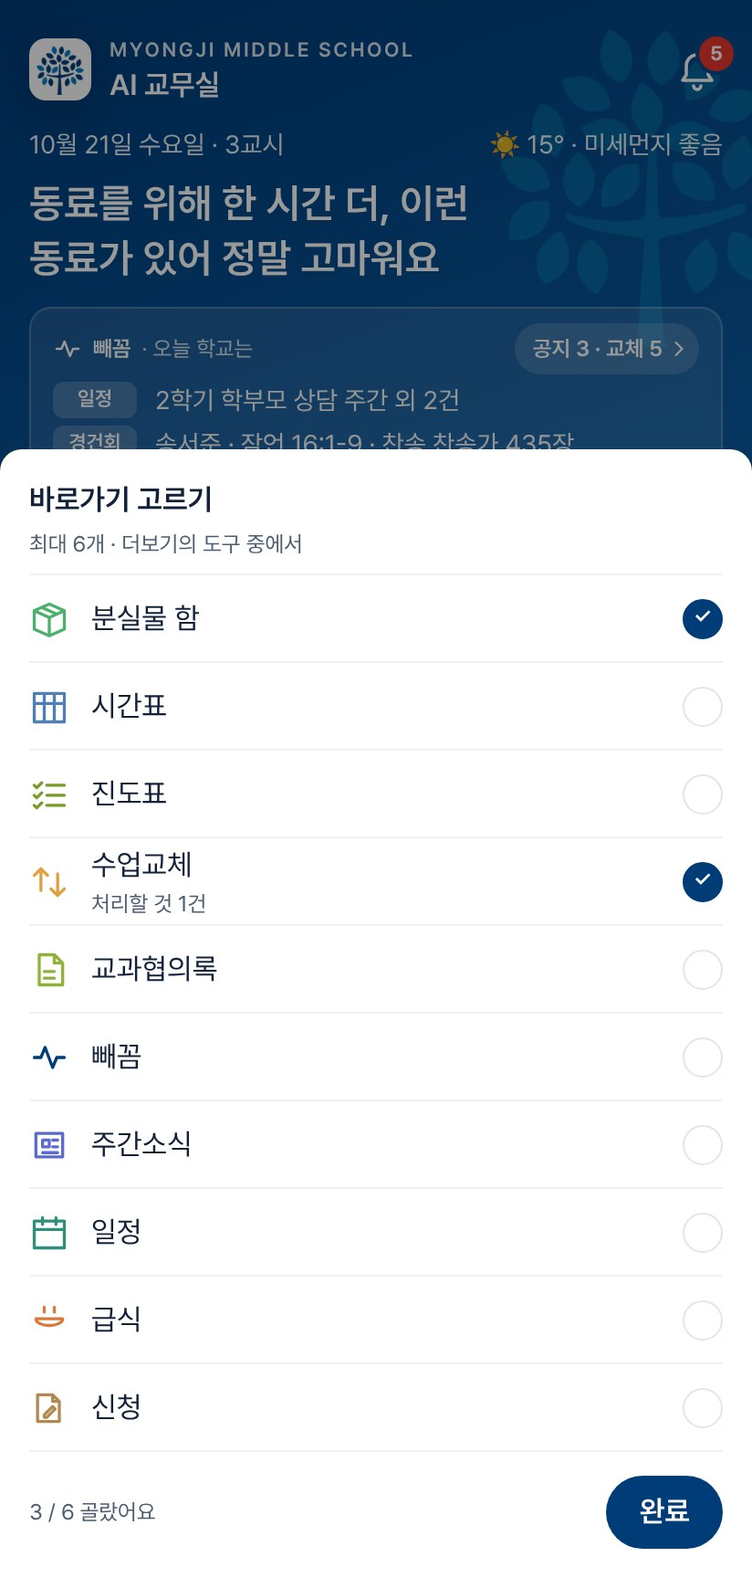
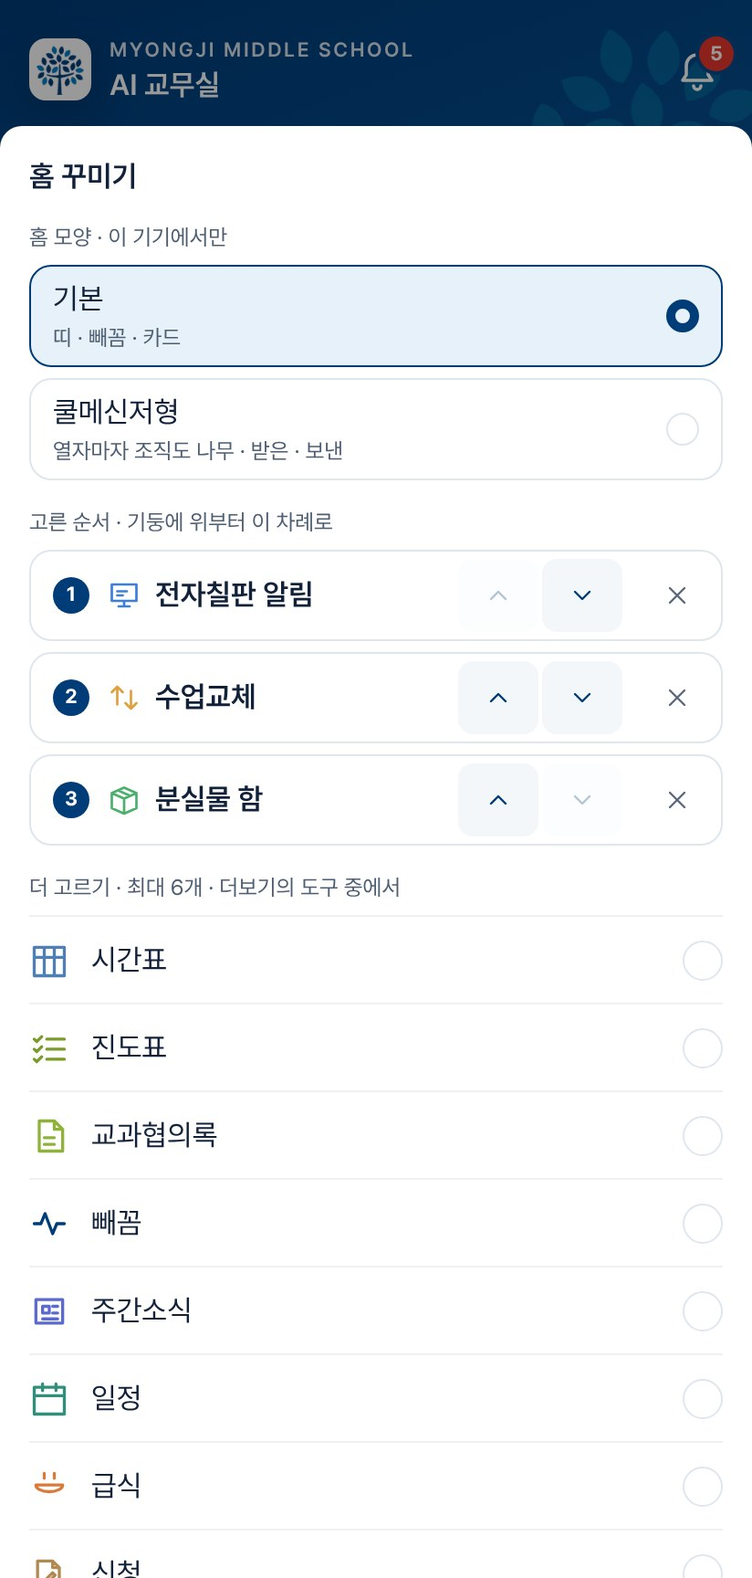
홈 꾸미기(10/31): 톱니 시트 새 그림·순서 ▲▼, 홈 모양 「쿨메신저형」 장면
- 톱니 시트가 「홈 꾸미기」로(홈 모양 · 고른 순서 ▲▼✕ · 더 고르기) — 그림 다시, 동그라미는 「고른 순서」에
- 새 장면 「열자마자 조직도, 쿨메신저형 홈」(보기만): 홈 모양 고르기, 두 줄 띠, 조직도·받은·보낸, 기둥 위 AI·자료실·더보기
- NEW 목록·요즘 새 기능·발표 노트에 10/31 홈 꾸미기

Claude-Session: https://claude.ai/code/session_01PnRkvZMXyWQ3PDuECRmpn5

diff --git a/img/rects.js b/img/rects.js
@@ -1,3 +1,3 @@
 /* 화면마다 동그라미 칠 자리(412×864 기준, 찍을 때 잰 값) — R(화면, 키) */
-window.SHOT_RECTS = {"ai-board": {"button": [31, 446, 162, 40], "card": [16, 286, 380, 213], "head": [31, 297, 177, 20], "question": [73, 68, 323, 98]}, "ai-deep": {"answer": [16, 202, 323, 464], "feedback": [20, 672, 41, 36], "question": [73, 68, 323, 124]}, "ai-deep-ready": {"deep": [72, 588, 211, 34], "file": [16, 499, 380, 38], "input": [72, 634, 268, 72], "plus": [16, 658, 48, 48], "send": [348, 658, 48, 48]}, "ai-form": {"answer": [16, 124, 323, 308], "feedback": [20, 438, 41, 36], "links": [267, 372, 37, 19], "question": [147, 68, 249, 46]}, "ai-home": {"chip_first": [16, 202, 380, 46], "chips": [16, 201, 380, 236], "clear": [333, 12, 71, 44], "greet": [16, 100, 380, 30], "head": [16, 16, 74, 36], "hello": [16, 134, 380, 39], "input": [72, 658, 268, 48], "mic": [348, 658, 48, 48], "notice": [16, 718, 380, 33], "plus": [16, 658, 48, 48], "tab_ai": [166, 792, 81, 44]}, "ai-lesson": {"body": [31, 501, 350, 482], "card": [16, 260, 380, 834], "head": [17, 261, 378, 41], "question": [73, 68, 323, 72]}, "ai-lesson-2": {"body": [31, 48, 350, 482], "button": [31, 560, 111, 40]}, "ai-letter": {"body": [31, 620, 350, 274], "card": [16, 286, 380, 671], "head": [17, 287, 378, 41], "question": [73, 68, 323, 72]}, "ai-letter-2": {"body": [31, 276, 350, 274], "button": [31, 560, 151, 40], "feedback": [20, 619, 41, 36]}, "ai-library": {"answer": [16, 124, 323, 438], "feedback": [20, 568, 41, 36], "links": [65, 450, 37, 19], "question": [133, 68, 263, 46]}, "ai-lost": {"button": [31, 586, 84, 40], "card": [16, 312, 380, 327], "photo": [31, 366, 96, 96], "question": [73, 68, 323, 124]}, "ai-nep": {"button": [31, 726, 84, 40], "card": [16, 286, 380, 493], "edit": [127, 738, 89, 16], "people": [31, 589, 350, 84], "question": [73, 68, 323, 72]}, "ai-number": {"button": [31, 449, 96, 40], "card": [16, 260, 380, 242], "question": [81, 68, 315, 46]}, "ai-parent": {"answer": [16, 150, 323, 386], "feedback": [20, 542, 41, 36], "question": [73, 68, 323, 72]}, "ai-plus": {"attach": [22, 523, 284, 60], "close": [16, 658, 48, 48], "deep": [22, 584, 284, 60], "menu": [16, 517, 296, 133]}, "ai-progress": {"button": [31, 504, 108, 40], "card": [16, 286, 380, 271], "question": [73, 68, 323, 72]}, "ai-recruit": {"button": [31, 546, 68, 40], "card": [16, 312, 380, 287], "question": [73, 68, 323, 72], "reason": [31, 480, 350, 35]}, "ai-repair": {"button": [31, 576, 96, 40], "card": [16, 260, 380, 369], "head": [17, 261, 378, 41], "question": [73, 68, 323, 72]}, "ai-sign": {"button": [31, 705, 175, 40], "card": [16, 286, 380, 472], "people": [31, 544, 350, 151], "question": [73, 68, 323, 72]}, "ai-swap": {"calendar": [31, 364, 75, 14], "card": [16, 312, 380, 703], "question": [73, 68, 323, 72]}, "ai-typed": {"input": [72, 658, 268, 48], "plus": [16, 658, 48, 48], "send": [348, 658, 48, 48]}, "ai-week": {"answer": [16, 124, 323, 308], "feedback": [20, 438, 41, 36], "question": [214, 68, 182, 46]}, "alerts": {}, "alerts-done": {"clear": [316, 379, 80, 44], "summary": [16, 331, 380, 44]}, "board-alert": {"all": [174, 581, 92, 40], "fire": [150, 233, 113, 56], "kind": [266, 137, 112, 44], "offline": [31, 679, 350, 16], "presets": [31, 233, 350, 118], "submit": [31, 701, 350, 50]}, "board-alert-confirm": {"cancel": [16, 804, 136, 44], "go": [160, 804, 236, 44], "sheet": [0, 0, 412, 864], "text": [16, 720, 380, 72], "where": [16, 668, 380, 40]}, "board-grades": {"g1": [31, 501, 113, 40], "g2": [150, 501, 113, 40], "offline": [31, 572, 350, 16], "submit": [31, 594, 350, 50]}, "board-memo": {"body": [37, 239, 338, 110], "kind": [150, 137, 112, 44], "note": [31, 414, 350, 32], "submit": [31, 612, 350, 50]}, "board-photo": {"body": [37, 239, 338, 110], "photoChip": [106, 362, 63, 38], "submit": [31, 701, 350, 50], "thumb": [45, 410, 102, 80]}, "board-pick": {"all": [16, 535, 380, 44], "done": [16, 798, 380, 50], "grid": [16, 591, 380, 94], "legend": [16, 697, 380, 32], "off": [170, 641, 71, 44], "tabs": [16, 481, 380, 42]}, "board-schedule": {"at": [161, 410, 206, 40], "day": [45, 410, 110, 40], "drop": [265, 458, 102, 32], "line": [45, 466, 163, 16], "submit": [31, 670, 350, 50], "timeChip": [243, 362, 63, 38]}, "board-send": {"body": [37, 239, 338, 110], "kinds": [31, 134, 350, 50], "mine": [272, 455, 109, 40], "options": [37, 362, 338, 38], "submit": [31, 572, 350, 50], "what": [31, 204, 350, 21], "where": [31, 426, 350, 115]}, "board-sent": {"done": [31, 528, 90, 22], "end": [31, 408, 50, 36], "live": [82, 381, 34, 16], "liveChip": [31, 378, 96, 22], "over": [31, 677, 88, 22], "reserve": [300, 129, 81, 16], "tabs": [247, 59, 134, 42], "unshown": [126, 733, 100, 22], "waitChip": [31, 185, 69, 22]}, "board-voice-rec": {"status": [45, 290, 322, 92], "stop": [285, 342, 82, 40]}, "calendar": {"grid": [16, 120, 380, 443], "seg": [206, 61, 187, 44], "today": [196, 391, 20, 20]}, "exam-card": {"ends": [31, 178, 350, 161], "head": [31, 87, 152, 20], "slots": [31, 134, 350, 32], "stats": [31, 351, 350, 73]}, "exam-card-pad": {"legend": [31, 150, 350, 16], "n24": [183, 307, 47, 40], "n7": [334, 195, 47, 40], "n9": [82, 239, 47, 40], "names": [31, 403, 350, 113], "stats": [31, 41, 350, 73]}, "exam-card-save": {"names": [31, 292, 350, 113], "note": [31, 470, 350, 48], "save": [31, 550, 350, 50]}, "forms": {"trip": [17, 110, 378, 56]}, "found": {"head": [16, 24, 380, 71]}, "home": {"bell": [360, 16, 44, 44], "changed": [276, 550, 45, 71], "gear": [356, 729, 52, 44], "hero": [16, 96, 380, 61], "hint": [16, 346, 380, 44], "nep": [16, 422, 320, 54], "now": [129, 550, 45, 71], "peek": [16, 168, 380, 120], "pg": [245, 489, 40, 44], "pill": [282, 177, 101, 28], "rail": [352, 406, 60, 380], "sc": [356, 410, 52, 62], "scAll": [356, 538, 52, 62], "tabAi": [166, 792, 81, 44], "tabMore": [327, 792, 81, 61], "tabNep": [85, 792, 81, 61], "tileLesson": [16, 300, 186, 38], "tileSched": [210, 300, 186, 38], "tiles": [16, 300, 380, 38], "tt": [289, 489, 40, 44]}, "home-3": {"cal": [289, 430, 40, 44], "gear": [356, 729, 52, 44], "meal": [31, 291, 24, 20], "rail": [352, 0, 60, 786], "upcoming": [31, 442, 76, 20], "weekly": [245, 430, 40, 44]}, "home-sheet": {"count": [16, 819, 69, 18], "done": [332, 808, 64, 40], "head": [16, 262, 380, 24], "pick": [16, 314, 380, 484], "sheet": [0, 0, 412, 864]}, "home-sports": {"card": [16, 16, 380, 493], "link": [16, 16, 380, 493]}, "library": {"chips": [72, 214, 52, 39], "pinned": [16, 282, 380, 95], "search": [52, 169, 331, 23], "write": [310, 720, 86, 48]}, "library-new": {"kind": [206, 440, 172, 36], "section": [31, 120, 350, 48], "submit": [31, 624, 350, 50], "title": [31, 210, 350, 48]}, "library-post": {"download": [31, 211, 350, 44]}, "library-search": {"result": [16, 282, 380, 95], "search": [52, 169, 331, 23]}, "login": {"go": [58, 554, 296, 50], "name": [58, 299, 296, 48], "pw": [58, 467, 296, 48]}, "lost-date": {"head": [31, 91, 53, 28], "head2": [31, 207, 51, 28], "scene": [16, 76, 380, 680]}, "lost-found": {"add": [126, 679, 161, 54], "box": [16, 76, 380, 680], "item": [184, 368, 81, 81], "note": [16, 756, 380, 43], "returned": [286, 16, 110, 44], "student": [251, 767, 50, 13]}, "lost-found-2": {"add": [126, 643, 161, 54], "note": [16, 720, 380, 43], "student": [251, 731, 50, 13]}, "lost-found-add": {"photo": [16, 154, 380, 212], "place": [16, 558, 380, 73], "submit": [149, 863, 247, 44]}, "lost-found-detail": {"back": [16, 804, 380, 44], "info": [16, 572, 380, 133]}, "lost-kind": {"head": [31, 91, 58, 28], "scene": [16, 76, 380, 680]}, "lost-tilt": {"btn": [280, 89, 103, 34], "scene": [16, 76, 380, 680]}, "meals": {}, "more-2": {"lost": [17, 228, 378, 56], "noti": [17, 524, 378, 56], "sign": [17, 376, 378, 56], "signature": [17, 580, 378, 56]}, "more-tools": {"board": [17, 383, 378, 56], "lost": [17, 643, 378, 56], "tools": [17, 439, 378, 56]}, "more-top": {"avatar": [107, 128, 203, 17]}, "nep-add": {"add": [16, 448, 253, 44]}, "nep-big": {"sheet": [0, 0, 412, 864]}, "nep-board": {"meter": [16, 173, 380, 76], "pending": [16, 261, 380, 21], "remind": [16, 328, 380, 44]}, "nep-board-replies": {"replies": [17, 509, 378, 37]}, "nep-board-submit": {"downloadAll": [275, 420, 121, 44]}, "nep-cal": {"events": [35, 292, 55, 20], "post": [35, 438, 342, 44]}, "nep-compose": {"plus": [16, 808, 44, 44], "send": [312, 808, 84, 44], "text": [16, 85, 380, 144], "to": [53, 52, 49, 25]}, "nep-compose-due": {"chip": [16, 237, 152, 29], "due": [43, 281, 261, 36], "send": [312, 808, 84, 44]}, "nep-event-hide": {"hide": [239, 385, 95, 44]}, "nep-fwd": {"card": [12, 276, 341, 358], "fwd": [307, 281, 39, 36]}, "nep-fwd-org": {"banner": [30, 148, 316, 40], "bar": [284, 702, 104, 41]}, "nep-inbox": {"chip": [341, 457, 51, 21], "me": [0, 128, 412, 68], "recruit": [0, 264, 412, 68], "row": [0, 196, 412, 68], "tabs": [16, 76, 380, 48], "unread": [372, 230, 20, 20]}, "nep-inbox-2": {"over": [332, 725, 60, 21], "park": [0, 623, 412, 68], "parkChip": [332, 657, 60, 21]}, "nep-link": {"ack": [27, 315, 60, 44], "card": [12, 118, 341, 254], "link": [27, 245, 311, 60]}, "nep-me": {"card": [12, 118, 341, 360], "events": [27, 281, 55, 20], "head": [0, 0, 412, 61]}, "nep-me-due": {"chip": [12, 649, 152, 29], "input": [64, 685, 260, 68], "last": [12, 423, 341, 360], "plus": [12, 709, 44, 44], "send": [332, 709, 68, 44]}, "nep-org": {"all": [14, 136, 384, 70], "dept": [15, 382, 382, 45], "deptCheck": [349, 383, 44, 44], "search": [348, 20, 44, 44], "tabInbox": [144, 80, 124, 40], "tabs": [16, 76, 380, 48], "top": [15, 248, 382, 89]}, "nep-org-groups": {"role": [15, 505, 382, 44], "roleCheck": [349, 505, 44, 44], "subj": [15, 417, 382, 45], "subjCheck": [349, 418, 44, 44]}, "nep-org-open": {"card": [15, 120, 382, 270], "check": [349, 256, 44, 44], "head": [349, 121, 44, 44], "me": [35, 352, 310, 32], "name": [35, 262, 310, 32]}, "nep-org-picked": {"bar": [14, 692, 384, 61], "checks": [15, 165, 382, 225], "write": [283, 702, 105, 41]}, "nep-org-search": {"found": [35, 277, 310, 32], "input": [50, 82, 298, 36]}, "nep-photos": {"photos": [12, 260, 288, 289], "save": [308, 387, 36, 36]}, "nep-plus": {"ack": [16, 536, 380, 56], "files": [16, 472, 380, 56], "schedule": [16, 728, 380, 56], "sheet": [0, 0, 412, 864], "submit": [16, 664, 380, 56], "task": [16, 600, 380, 56], "urgent": [16, 792, 380, 56]}, "nep-recruit": {"apply": [27, 628, 72, 44], "card": [12, 502, 341, 182], "duty": [12, 308, 341, 184], "head": [0, 0, 412, 61], "old": [12, 34, 341, 230], "oldState": [27, 159, 127, 44]}, "nep-room": {"bubble": [209, 643, 191, 63], "card": [12, 276, 341, 358], "done": [27, 576, 72, 44], "due": [27, 530, 311, 36], "head": [0, 0, 412, 61], "input": [64, 709, 260, 44], "plus": [12, 709, 44, 44], "send": [332, 709, 68, 44]}, "nep-room-done": {"done": [27, 576, 100, 44]}, "nep-room-menu": {"dots": [360, 10, 40, 40], "item": [241, 59, 158, 44]}, "nep-room-reply": {"input": [64, 808, 260, 44], "last": [12, 397, 341, 129], "mine": [131, 289, 269, 63], "send": [332, 808, 68, 44], "theirs": [12, 118, 341, 162]}, "nep-sent": {"progress": [0, 332, 412, 68], "sched": [0, 128, 412, 68], "tabs": [16, 76, 380, 48]}, "nep-swipe": {"clear": [328, 196, 84, 68], "row": [0, 196, 412, 68]}, "notifications-off": {"nurse": [333, 308, 48, 28], "on": [62, 147, 319, 44]}, "notifications-on": {"nurse": [333, 390, 48, 28], "test": [63, 177, 318, 44]}, "nurse": {"open": [31, 139, 350, 50]}, "password": {"go": [31, 297, 350, 50], "new": [31, 121, 350, 48]}, "pc-noti": {"on": [56, 89, 325, 20], "test": [56, 165, 325, 44], "tray": [56, 121, 325, 32]}, "pg-class": {"chips": [16, 76, 380, 44], "csv": [309, 16, 87, 44]}, "pg-month": {"left": [33, 354, 346, 17], "nav": [16, 205, 380, 40], "row": [16, 396, 380, 118], "streak": [299, 270, 80, 21], "summary": [16, 257, 380, 127], "toggle": [16, 139, 380, 54]}, "pg-month-2": {"legend": [16, 614, 380, 40], "off": [77, 57, 24, 32], "row": [16, 267, 380, 118], "star": [53, 64, 16, 17], "today": [77, 91, 24, 32], "todo": [53, 342, 24, 32]}, "pg-month-pick": {"head": [31, 89, 121, 21], "slot": [17, 300, 378, 29]}, "pg-today": {"card": [16, 229, 380, 142], "date": [68, 139, 216, 44], "map": [206, 80, 187, 44], "save": [309, 703, 87, 44], "segment": [16, 77, 380, 50]}, "pg-today-classes": {"classes": [17, 524, 378, 46], "row": [17, 667, 378, 48]}, "pg-week": {"hint": [16, 605, 380, 17], "list": [16, 139, 380, 54], "nav": [16, 205, 380, 40], "toggle": [16, 139, 380, 54]}, "pg-week-pick": {"head": [31, 400, 120, 21], "row": [17, 142, 378, 72]}, "rain-pe": {"chips": [31, 208, 350, 120], "mine": [17, 132, 378, 32], "note": [16, 707, 380, 48], "slot": [17, 164, 378, 177]}, "record": {"privacy": [16, 42, 253, 16]}, "record-activities": {"activities": [31, 170, 350, 425], "subject": [31, 88, 350, 48]}, "record-input": {"count": [31, 403, 350, 48], "tabs": [16, 90, 380, 50], "upload": [31, 485, 350, 21]}, "record-kinds": {"gwasetuk": [31, 265, 65, 20]}, "record-options": {"generate": [31, 383, 350, 50], "length": [31, 61, 350, 21], "model": [31, 301, 350, 48]}, "record-result": {"basis": [31, 532, 350, 90], "result": [31, 330, 350, 166]}, "sign-file": {"doc": [312, 103, 56, 21], "sign": [31, 181, 252, 48]}, "sign-file-new": {"file": [31, 110, 350, 117], "hint": [31, 192, 350, 35], "title": [31, 271, 350, 48], "who": [31, 335, 350, 23]}, "sign-file-new-bottom": {"me": [31, 667, 350, 21], "next": [31, 705, 350, 44]}, "sign-list": {"file": [30, 89, 157, 26], "meeting": [226, 90, 155, 26], "todo": [16, 166, 380, 23]}, "sign-meeting": {"hand": [295, 141, 71, 17], "roster": [17, 234, 378, 464], "sign": [31, 126, 252, 48]}, "sign-meeting-new": {"chips": [76, 455, 95, 40], "picker": [31, 401, 350, 44], "title": [31, 120, 350, 48], "when": [31, 212, 169, 48]}, "sign-meeting-new-bottom": {"group": [71, 452, 310, 48], "me": [31, 617, 350, 21], "members": [31, 511, 350, 62], "submit": [31, 705, 350, 44]}, "sign-mine": {}, "signature": {"default": [267, 96, 112, 21], "hand": [16, 77, 380, 302], "stamp": [16, 391, 380, 302]}, "signature-draw": {"pad": [17, 567, 378, 224], "save": [338, 804, 58, 44]}, "signature-empty": {"draw": [33, 318, 100, 44], "stamp": [33, 633, 130, 44]}, "sports": {"bracket": [16, 77, 380, 262], "match": [29, 394, 354, 129], "rounds": [98, 352, 50, 32], "score": [116, 176, 17, 14]}, "sub-calc": {"calendar": [31, 466, 350, 21], "date": [31, 316, 169, 44], "go": [31, 501, 350, 44], "periods": [31, 374, 350, 113], "reason": [212, 316, 169, 44], "tabs": [16, 77, 380, 50], "teacher": [31, 229, 350, 44]}, "sub-dates": {"byHand": [278, 520, 71, 17], "dates": [43, 117, 255, 68], "request": [31, 508, 235, 40], "tools": [31, 460, 350, 36]}, "sub-inbox": {"pending": [16, 316, 380, 21], "proxy": [31, 651, 220, 40], "register": [16, 139, 380, 44], "rooms": [16, 243, 380, 65], "tab": [268, 80, 125, 44]}, "sub-requests": {"accept": [31, 611, 185, 40], "byHand": [228, 623, 71, 17], "card": [16, 407, 380, 257], "reject": [307, 611, 56, 40], "tab": [206, 80, 187, 44]}, "sub-result": {"calendar": [31, 120, 350, 42], "date": [43, 317, 279, 40], "firstStep": [31, 264, 350, 23], "plan1": [31, 207, 350, 49]}, "today": {"board": [31, 87, 48, 20], "days": [180, 305, 40, 21], "mynep": [31, 452, 39, 20], "prayer": [17, 120, 378, 42]}, "today-2": {"changes": [17, 321, 378, 45], "events": [31, 94, 64, 20]}, "tt-class": {"picker": [16, 135, 380, 44], "tabs": [16, 77, 380, 50]}, "tt-free": {"name": [31, 395, 60, 40], "rooms": [16, 212, 380, 123], "teachers": [16, 347, 380, 343]}, "tt-free-nep": {}, "tt-my": {"away": [191, 516, 61, 87], "band": [191, 226, 61, 87], "changed": [191, 606, 61, 68], "pending": [322, 317, 61, 68], "picker": [16, 135, 380, 44], "tabs": [16, 77, 380, 50], "today": [191, 389, 61, 68]}, "tt-pop": {"band": [191, 226, 61, 87], "pop": [29, 317, 354, 115]}, "weekly": {"mine": [44, 526, 324, 76], "seg": [206, 171, 187, 44]}};
+window.SHOT_RECTS = {"ai-board": {"button": [31, 446, 162, 40], "card": [16, 286, 380, 213], "head": [31, 297, 177, 20], "question": [73, 68, 323, 98]}, "ai-deep": {"answer": [16, 202, 323, 464], "feedback": [20, 672, 41, 36], "question": [73, 68, 323, 124]}, "ai-deep-ready": {"deep": [72, 588, 211, 34], "file": [16, 499, 380, 38], "input": [72, 634, 268, 72], "plus": [16, 658, 48, 48], "send": [348, 658, 48, 48]}, "ai-form": {"answer": [16, 124, 323, 308], "feedback": [20, 438, 41, 36], "links": [267, 372, 37, 19], "question": [147, 68, 249, 46]}, "ai-home": {"chip_first": [16, 202, 380, 46], "chips": [16, 201, 380, 236], "clear": [333, 12, 71, 44], "greet": [16, 100, 380, 30], "head": [16, 16, 74, 36], "hello": [16, 134, 380, 39], "input": [72, 658, 268, 48], "mic": [348, 658, 48, 48], "notice": [16, 718, 380, 33], "plus": [16, 658, 48, 48], "tab_ai": [166, 792, 81, 44]}, "ai-lesson": {"body": [31, 501, 350, 482], "card": [16, 260, 380, 834], "head": [17, 261, 378, 41], "question": [73, 68, 323, 72]}, "ai-lesson-2": {"body": [31, 48, 350, 482], "button": [31, 560, 111, 40]}, "ai-letter": {"body": [31, 620, 350, 274], "card": [16, 286, 380, 671], "head": [17, 287, 378, 41], "question": [73, 68, 323, 72]}, "ai-letter-2": {"body": [31, 276, 350, 274], "button": [31, 560, 151, 40], "feedback": [20, 619, 41, 36]}, "ai-library": {"answer": [16, 124, 323, 438], "feedback": [20, 568, 41, 36], "links": [65, 450, 37, 19], "question": [133, 68, 263, 46]}, "ai-lost": {"button": [31, 586, 84, 40], "card": [16, 312, 380, 327], "photo": [31, 366, 96, 96], "question": [73, 68, 323, 124]}, "ai-nep": {"button": [31, 726, 84, 40], "card": [16, 286, 380, 493], "edit": [127, 738, 89, 16], "people": [31, 589, 350, 84], "question": [73, 68, 323, 72]}, "ai-number": {"button": [31, 449, 96, 40], "card": [16, 260, 380, 242], "question": [81, 68, 315, 46]}, "ai-parent": {"answer": [16, 150, 323, 386], "feedback": [20, 542, 41, 36], "question": [73, 68, 323, 72]}, "ai-plus": {"attach": [22, 523, 284, 60], "close": [16, 658, 48, 48], "deep": [22, 584, 284, 60], "menu": [16, 517, 296, 133]}, "ai-progress": {"button": [31, 504, 108, 40], "card": [16, 286, 380, 271], "question": [73, 68, 323, 72]}, "ai-recruit": {"button": [31, 546, 68, 40], "card": [16, 312, 380, 287], "question": [73, 68, 323, 72], "reason": [31, 480, 350, 35]}, "ai-repair": {"button": [31, 576, 96, 40], "card": [16, 260, 380, 369], "head": [17, 261, 378, 41], "question": [73, 68, 323, 72]}, "ai-sign": {"button": [31, 705, 175, 40], "card": [16, 286, 380, 472], "people": [31, 544, 350, 151], "question": [73, 68, 323, 72]}, "ai-swap": {"calendar": [31, 364, 75, 14], "card": [16, 312, 380, 703], "question": [73, 68, 323, 72]}, "ai-typed": {"input": [72, 658, 268, 48], "plus": [16, 658, 48, 48], "send": [348, 658, 48, 48]}, "ai-week": {"answer": [16, 124, 323, 308], "feedback": [20, 438, 41, 36], "question": [214, 68, 182, 46]}, "alerts": {}, "alerts-done": {"clear": [316, 379, 80, 44], "summary": [16, 331, 380, 44]}, "board-alert": {"all": [174, 581, 92, 40], "fire": [150, 233, 113, 56], "kind": [266, 137, 112, 44], "offline": [31, 679, 350, 16], "presets": [31, 233, 350, 118], "submit": [31, 701, 350, 50]}, "board-alert-confirm": {"cancel": [16, 804, 136, 44], "go": [160, 804, 236, 44], "sheet": [0, 0, 412, 864], "text": [16, 720, 380, 72], "where": [16, 668, 380, 40]}, "board-grades": {"g1": [31, 501, 113, 40], "g2": [150, 501, 113, 40], "offline": [31, 572, 350, 16], "submit": [31, 594, 350, 50]}, "board-memo": {"body": [37, 239, 338, 110], "kind": [150, 137, 112, 44], "note": [31, 414, 350, 32], "submit": [31, 612, 350, 50]}, "board-photo": {"body": [37, 239, 338, 110], "photoChip": [106, 362, 63, 38], "submit": [31, 701, 350, 50], "thumb": [45, 410, 102, 80]}, "board-pick": {"all": [16, 535, 380, 44], "done": [16, 798, 380, 50], "grid": [16, 591, 380, 94], "legend": [16, 697, 380, 32], "off": [170, 641, 71, 44], "tabs": [16, 481, 380, 42]}, "board-schedule": {"at": [161, 410, 206, 40], "day": [45, 410, 110, 40], "drop": [265, 458, 102, 32], "line": [45, 466, 163, 16], "submit": [31, 670, 350, 50], "timeChip": [243, 362, 63, 38]}, "board-send": {"body": [37, 239, 338, 110], "kinds": [31, 134, 350, 50], "mine": [272, 455, 109, 40], "options": [37, 362, 338, 38], "submit": [31, 572, 350, 50], "what": [31, 204, 350, 21], "where": [31, 426, 350, 115]}, "board-sent": {"done": [31, 528, 90, 22], "end": [31, 408, 50, 36], "live": [82, 381, 34, 16], "liveChip": [31, 378, 96, 22], "over": [31, 677, 88, 22], "reserve": [300, 129, 81, 16], "tabs": [247, 59, 134, 42], "unshown": [126, 733, 100, 22], "waitChip": [31, 185, 69, 22]}, "board-voice-rec": {"status": [45, 290, 322, 92], "stop": [285, 342, 82, 40]}, "calendar": {"grid": [16, 120, 380, 443], "seg": [206, 61, 187, 44], "today": [196, 391, 20, 20]}, "exam-card": {"ends": [31, 178, 350, 161], "head": [31, 87, 152, 20], "slots": [31, 134, 350, 32], "stats": [31, 351, 350, 73]}, "exam-card-pad": {"legend": [31, 150, 350, 16], "n24": [183, 307, 47, 40], "n7": [334, 195, 47, 40], "n9": [82, 239, 47, 40], "names": [31, 403, 350, 113], "stats": [31, 41, 350, 73]}, "exam-card-save": {"names": [31, 292, 350, 113], "note": [31, 470, 350, 48], "save": [31, 550, 350, 50]}, "forms": {"trip": [17, 110, 378, 56]}, "found": {"head": [16, 24, 380, 71]}, "home": {"bell": [360, 16, 44, 44], "changed": [276, 550, 45, 71], "gear": [356, 729, 52, 44], "hero": [16, 96, 380, 61], "hint": [16, 346, 380, 44], "nep": [16, 422, 320, 54], "now": [129, 550, 45, 71], "peek": [16, 168, 380, 120], "pg": [245, 489, 40, 44], "pill": [282, 177, 101, 28], "rail": [352, 406, 60, 380], "sc": [356, 410, 52, 62], "scAll": [356, 538, 52, 62], "tabAi": [166, 792, 81, 44], "tabMore": [327, 792, 81, 61], "tabNep": [85, 792, 81, 61], "tileLesson": [16, 300, 186, 38], "tileSched": [210, 300, 186, 38], "tiles": [16, 300, 380, 38], "tt": [289, 489, 40, 44]}, "home-3": {"cal": [289, 430, 40, 44], "gear": [356, 729, 52, 44], "meal": [31, 291, 24, 20], "rail": [352, 0, 60, 786], "upcoming": [31, 442, 76, 20], "weekly": [245, 430, 40, 44]}, "home-cool": {"band": [0, 0, 412, 132], "bell": [358, 8, 48, 48], "inbox": [170, 144, 96, 44], "menu": [354, 138, 56, 186], "org": [16, 196, 330, 668], "rail": [352, 132, 60, 864], "search": [46, 148, 114, 36], "sent": [272, 144, 68, 44]}, "home-sheet": {"count": [16, 1006, 69, 18], "done": [332, 995, 64, 40], "head": [16, 85, 380, 24], "look": [16, 145, 380, 118], "order": [16, 301, 380, 162], "pick": [16, 501, 380, 484], "sheet": [0, 0, 412, 864]}, "home-sports": {"card": [16, 16, 380, 493], "link": [16, 16, 380, 493]}, "library": {"chips": [72, 214, 52, 39], "pinned": [16, 282, 380, 95], "search": [52, 169, 331, 23], "write": [310, 720, 86, 48]}, "library-new": {"kind": [206, 440, 172, 36], "section": [31, 120, 350, 48], "submit": [31, 624, 350, 50], "title": [31, 210, 350, 48]}, "library-post": {"download": [31, 211, 350, 44]}, "library-search": {"result": [16, 282, 380, 95], "search": [52, 169, 331, 23]}, "login": {"go": [58, 554, 296, 50], "name": [58, 299, 296, 48], "pw": [58, 467, 296, 48]}, "lost-date": {"head": [31, 91, 53, 28], "head2": [31, 207, 51, 28], "scene": [16, 76, 380, 680]}, "lost-found": {"add": [126, 679, 161, 54], "box": [16, 76, 380, 680], "item": [184, 368, 81, 81], "note": [16, 756, 380, 43], "returned": [286, 16, 110, 44], "student": [251, 767, 50, 13]}, "lost-found-2": {"add": [126, 643, 161, 54], "note": [16, 720, 380, 43], "student": [251, 731, 50, 13]}, "lost-found-add": {"photo": [16, 154, 380, 212], "place": [16, 558, 380, 73], "submit": [149, 863, 247, 44]}, "lost-found-detail": {"back": [16, 804, 380, 44], "info": [16, 572, 380, 133]}, "lost-kind": {"head": [31, 91, 58, 28], "scene": [16, 76, 380, 680]}, "lost-tilt": {"btn": [280, 89, 103, 34], "scene": [16, 76, 380, 680]}, "meals": {}, "more-2": {"lost": [17, 228, 378, 56], "noti": [17, 524, 378, 56], "sign": [17, 376, 378, 56], "signature": [17, 580, 378, 56]}, "more-tools": {"board": [17, 383, 378, 56], "lost": [17, 643, 378, 56], "tools": [17, 439, 378, 56]}, "more-top": {"avatar": [107, 128, 203, 17]}, "nep-add": {"add": [16, 448, 253, 44]}, "nep-big": {"sheet": [0, 0, 412, 864]}, "nep-board": {"meter": [16, 173, 380, 76], "pending": [16, 261, 380, 21], "remind": [16, 328, 380, 44]}, "nep-board-replies": {"replies": [17, 509, 378, 37]}, "nep-board-submit": {"downloadAll": [275, 420, 121, 44]}, "nep-cal": {"events": [35, 292, 55, 20], "post": [35, 438, 342, 44]}, "nep-compose": {"plus": [16, 808, 44, 44], "send": [312, 808, 84, 44], "text": [16, 85, 380, 144], "to": [53, 52, 49, 25]}, "nep-compose-due": {"chip": [16, 237, 152, 29], "due": [43, 281, 261, 36], "send": [312, 808, 84, 44]}, "nep-event-hide": {"hide": [239, 385, 95, 44]}, "nep-fwd": {"card": [12, 276, 341, 358], "fwd": [307, 281, 39, 36]}, "nep-fwd-org": {"banner": [30, 148, 316, 40], "bar": [284, 702, 104, 41]}, "nep-inbox": {"chip": [341, 457, 51, 21], "me": [0, 128, 412, 68], "recruit": [0, 264, 412, 68], "row": [0, 196, 412, 68], "tabs": [16, 76, 380, 48], "unread": [372, 230, 20, 20]}, "nep-inbox-2": {"over": [332, 725, 60, 21], "park": [0, 623, 412, 68], "parkChip": [332, 657, 60, 21]}, "nep-link": {"ack": [27, 315, 60, 44], "card": [12, 118, 341, 254], "link": [27, 245, 311, 60]}, "nep-me": {"card": [12, 118, 341, 360], "events": [27, 281, 55, 20], "head": [0, 0, 412, 61]}, "nep-me-due": {"chip": [12, 649, 152, 29], "input": [64, 685, 260, 68], "last": [12, 423, 341, 360], "plus": [12, 709, 44, 44], "send": [332, 709, 68, 44]}, "nep-org": {"all": [14, 136, 384, 70], "dept": [15, 382, 382, 45], "deptCheck": [349, 383, 44, 44], "search": [348, 20, 44, 44], "tabInbox": [144, 80, 124, 40], "tabs": [16, 76, 380, 48], "top": [15, 248, 382, 89]}, "nep-org-groups": {"role": [15, 505, 382, 44], "roleCheck": [349, 505, 44, 44], "subj": [15, 417, 382, 45], "subjCheck": [349, 418, 44, 44]}, "nep-org-open": {"card": [15, 120, 382, 270], "check": [349, 256, 44, 44], "head": [349, 121, 44, 44], "me": [35, 352, 310, 32], "name": [35, 262, 310, 32]}, "nep-org-picked": {"bar": [14, 692, 384, 61], "checks": [15, 165, 382, 225], "write": [283, 702, 105, 41]}, "nep-org-search": {"found": [35, 277, 310, 32], "input": [50, 82, 298, 36]}, "nep-photos": {"photos": [12, 260, 288, 289], "save": [308, 387, 36, 36]}, "nep-plus": {"ack": [16, 536, 380, 56], "files": [16, 472, 380, 56], "schedule": [16, 728, 380, 56], "sheet": [0, 0, 412, 864], "submit": [16, 664, 380, 56], "task": [16, 600, 380, 56], "urgent": [16, 792, 380, 56]}, "nep-recruit": {"apply": [27, 628, 72, 44], "card": [12, 502, 341, 182], "duty": [12, 308, 341, 184], "head": [0, 0, 412, 61], "old": [12, 34, 341, 230], "oldState": [27, 159, 127, 44]}, "nep-room": {"bubble": [209, 643, 191, 63], "card": [12, 276, 341, 358], "done": [27, 576, 72, 44], "due": [27, 530, 311, 36], "head": [0, 0, 412, 61], "input": [64, 709, 260, 44], "plus": [12, 709, 44, 44], "send": [332, 709, 68, 44]}, "nep-room-done": {"done": [27, 576, 100, 44]}, "nep-room-menu": {"dots": [360, 10, 40, 40], "item": [241, 59, 158, 44]}, "nep-room-reply": {"input": [64, 808, 260, 44], "last": [12, 397, 341, 129], "mine": [131, 289, 269, 63], "send": [332, 808, 68, 44], "theirs": [12, 118, 341, 162]}, "nep-sent": {"progress": [0, 332, 412, 68], "sched": [0, 128, 412, 68], "tabs": [16, 76, 380, 48]}, "nep-swipe": {"clear": [328, 196, 84, 68], "row": [0, 196, 412, 68]}, "notifications-off": {"nurse": [333, 308, 48, 28], "on": [62, 147, 319, 44]}, "notifications-on": {"nurse": [333, 390, 48, 28], "test": [63, 177, 318, 44]}, "nurse": {"open": [31, 139, 350, 50]}, "password": {"go": [31, 297, 350, 50], "new": [31, 121, 350, 48]}, "pc-noti": {"on": [56, 89, 325, 20], "test": [56, 165, 325, 44], "tray": [56, 121, 325, 32]}, "pg-class": {"chips": [16, 76, 380, 44], "csv": [309, 16, 87, 44]}, "pg-month": {"left": [33, 354, 346, 17], "nav": [16, 205, 380, 40], "row": [16, 396, 380, 118], "streak": [299, 270, 80, 21], "summary": [16, 257, 380, 127], "toggle": [16, 139, 380, 54]}, "pg-month-2": {"legend": [16, 614, 380, 40], "off": [77, 57, 24, 32], "row": [16, 267, 380, 118], "star": [53, 64, 16, 17], "today": [77, 91, 24, 32], "todo": [53, 342, 24, 32]}, "pg-month-pick": {"head": [31, 89, 121, 21], "slot": [17, 300, 378, 29]}, "pg-today": {"card": [16, 229, 380, 142], "date": [68, 139, 216, 44], "map": [206, 80, 187, 44], "save": [309, 703, 87, 44], "segment": [16, 77, 380, 50]}, "pg-today-classes": {"classes": [17, 524, 378, 46], "row": [17, 667, 378, 48]}, "pg-week": {"hint": [16, 605, 380, 17], "list": [16, 139, 380, 54], "nav": [16, 205, 380, 40], "toggle": [16, 139, 380, 54]}, "pg-week-pick": {"head": [31, 400, 120, 21], "row": [17, 142, 378, 72]}, "rain-pe": {"chips": [31, 208, 350, 120], "mine": [17, 132, 378, 32], "note": [16, 707, 380, 48], "slot": [17, 164, 378, 177]}, "record": {"privacy": [16, 42, 253, 16]}, "record-activities": {"activities": [31, 170, 350, 425], "subject": [31, 88, 350, 48]}, "record-input": {"count": [31, 403, 350, 48], "tabs": [16, 90, 380, 50], "upload": [31, 485, 350, 21]}, "record-kinds": {"gwasetuk": [31, 265, 65, 20]}, "record-options": {"generate": [31, 383, 350, 50], "length": [31, 61, 350, 21], "model": [31, 301, 350, 48]}, "record-result": {"basis": [31, 532, 350, 90], "result": [31, 330, 350, 166]}, "sign-file": {"doc": [312, 103, 56, 21], "sign": [31, 181, 252, 48]}, "sign-file-new": {"file": [31, 110, 350, 117], "hint": [31, 192, 350, 35], "title": [31, 271, 350, 48], "who": [31, 335, 350, 23]}, "sign-file-new-bottom": {"me": [31, 667, 350, 21], "next": [31, 705, 350, 44]}, "sign-list": {"file": [30, 89, 157, 26], "meeting": [226, 90, 155, 26], "todo": [16, 166, 380, 23]}, "sign-meeting": {"hand": [295, 141, 71, 17], "roster": [17, 234, 378, 464], "sign": [31, 126, 252, 48]}, "sign-meeting-new": {"chips": [76, 455, 95, 40], "picker": [31, 401, 350, 44], "title": [31, 120, 350, 48], "when": [31, 212, 169, 48]}, "sign-meeting-new-bottom": {"group": [71, 452, 310, 48], "me": [31, 617, 350, 21], "members": [31, 511, 350, 62], "submit": [31, 705, 350, 44]}, "sign-mine": {}, "signature": {"default": [267, 96, 112, 21], "hand": [16, 77, 380, 302], "stamp": [16, 391, 380, 302]}, "signature-draw": {"pad": [17, 567, 378, 224], "save": [338, 804, 58, 44]}, "signature-empty": {"draw": [33, 318, 100, 44], "stamp": [33, 633, 130, 44]}, "sports": {"bracket": [16, 77, 380, 262], "match": [29, 394, 354, 129], "rounds": [98, 352, 50, 32], "score": [116, 176, 17, 14]}, "sub-calc": {"calendar": [31, 466, 350, 21], "date": [31, 316, 169, 44], "go": [31, 501, 350, 44], "periods": [31, 374, 350, 113], "reason": [212, 316, 169, 44], "tabs": [16, 77, 380, 50], "teacher": [31, 229, 350, 44]}, "sub-dates": {"byHand": [278, 520, 71, 17], "dates": [43, 117, 255, 68], "request": [31, 508, 235, 40], "tools": [31, 460, 350, 36]}, "sub-inbox": {"pending": [16, 316, 380, 21], "proxy": [31, 651, 220, 40], "register": [16, 139, 380, 44], "rooms": [16, 243, 380, 65], "tab": [268, 80, 125, 44]}, "sub-requests": {"accept": [31, 611, 185, 40], "byHand": [228, 623, 71, 17], "card": [16, 407, 380, 257], "reject": [307, 611, 56, 40], "tab": [206, 80, 187, 44]}, "sub-result": {"calendar": [31, 120, 350, 42], "date": [43, 317, 279, 40], "firstStep": [31, 264, 350, 23], "plan1": [31, 207, 350, 49]}, "today": {"board": [31, 87, 48, 20], "days": [180, 305, 40, 21], "mynep": [31, 452, 39, 20], "prayer": [17, 120, 378, 42]}, "today-2": {"changes": [17, 321, 378, 45], "events": [31, 94, 64, 20]}, "tt-class": {"picker": [16, 135, 380, 44], "tabs": [16, 77, 380, 50]}, "tt-free": {"name": [31, 395, 60, 40], "rooms": [16, 212, 380, 123], "teachers": [16, 347, 380, 343]}, "tt-free-nep": {}, "tt-my": {"away": [191, 516, 61, 87], "band": [191, 226, 61, 87], "changed": [191, 606, 61, 68], "pending": [322, 317, 61, 68], "picker": [16, 135, 380, 44], "tabs": [16, 77, 380, 50], "today": [191, 389, 61, 68]}, "tt-pop": {"band": [191, 226, 61, 87], "pop": [29, 317, 354, 115]}, "weekly": {"mine": [44, 526, 324, 76], "seg": [206, 171, 187, 44]}};
 window.R = function (s, k) { var a = (window.SHOT_RECTS[s] || {})[k]; if (!a) { if (window.console) console.warn('rect 없음', s, k); return null; } return a; };

diff --git a/scenes.js b/scenes.js
@@ -667,7 +667,7 @@
   });
 
   var NEWF = [
-    ["3부", "새 홈 화면", "<b>빼꼼 판</b>·<b>내 수업 · 내 일정</b>, 오른쪽 <b>바로가기 기둥</b>(톱니로 최대 6개). 저녁 7시부터 <b>내일</b>."],
+    ["3부", "새 홈 화면", "<b>빼꼼 판</b>·<b>내 수업 · 내 일정</b>, 오른쪽 <b>바로가기 기둥</b>(톱니 「홈 꾸미기」 — 순서 ▲▼, 홈 모양 <b>쿨메신저형</b>). 저녁 7시부터 <b>내일</b>."],
     ["3부", "주간소식", "일정 맨 위 <b>월간 | 주간소식</b>. 요일 카드에 <b>나에게만</b>, <b>원본 보기</b>는 인쇄물 그대로."],
     ["3부", "빼꼼 · 기도제목", "빼꼼 알림판 첫 줄 <b>금주의 기도제목</b>. 홈 빼꼼 판은 어디를 눌러도 <b>빼꼼</b>."],
     ["AI", "AI 해죠", "이름이 <b>AI 해죠</b>로. <b>＋</b>로 파일·깊게 생각하기, <b>마이크</b>는 말이 끝나면 1초 뒤 보내기."],
@@ -678,7 +678,7 @@
   ];
   D.add({
     id: "whatsnew", part: 0, label: "요즘 새 기능", kind: "light", min: 1.2, isNew: true,
-    notes: "10월 넷째·다섯째 주(10/21~10/31)에 바뀐 것입니다. 가장 큰 것은 <b>홈</b>입니다 — 위쪽 파란 띠에 <b>빼꼼 판</b>과 <b>내 수업 · 내 일정</b> 두 칸이 생겼고(10/28), 카드 오른쪽 <b>남색 기둥</b>에 자주 쓰는 도구를 톱니로 최대 6개 골라 둡니다(10/30). 전자칠판 보내기는 글 칸 아래 한 줄에 링크 · 사진 · 음성 · 예약 · 10분 단추가 생겼고, 예약은 오늘 · 내일과 시각만 고르면 됩니다(10/31). 일정 맨 위 <b>월간 | 주간소식</b>에서 주간소식을 요일 카드로 보고, <b>원본 보기</b>로 늘 보던 인쇄물 그대로 봅니다. 빼꼼 알림판 첫 줄은 <b>금주의 기도제목</b>입니다. AI 도우미 이름은 <b>AI 해죠</b>가 되었고 마이크로 말하면 1초 뒤 저절로 보냅니다. 넵은 사진이 카톡처럼 크게 보이고, 받은 넵을 전달하거나 빠뜨린 분을 더할 수 있습니다. 학교가 보내는 자동 안내는 종 그림 <b>띵동</b>으로 옵니다. 수업 교체에는 <b>반 바꾸기</b>가 생겼고, 분실물 함은 폰을 흔들면 정리됩니다. 나머지는 각 부에서 직접 봅니다. 왼쪽 위 표시를 가리키며 “뒤에서 직접 봅니다” 정도로 짧게 넘깁니다.",
+    notes: "10월 넷째·다섯째 주(10/21~10/31)에 바뀐 것입니다. 가장 큰 것은 <b>홈</b>입니다 — 위쪽 파란 띠에 <b>빼꼼 판</b>과 <b>내 수업 · 내 일정</b> 두 칸이 생겼고(10/28), 카드 오른쪽 <b>남색 기둥</b>에 자주 쓰는 도구를 톱니로 최대 6개 골라 둡니다(10/30). 톱니 시트 「홈 꾸미기」에서는 순서를 ▲▼로 바꾸고, 홈 모양을 <b>쿨메신저형</b>(열자마자 조직도)으로 고를 수도 있습니다(10/31). 전자칠판 보내기는 글 칸 아래 한 줄에 링크 · 사진 · 음성 · 예약 · 10분 단추가 생겼고, 예약은 오늘 · 내일과 시각만 고르면 됩니다(10/31). 일정 맨 위 <b>월간 | 주간소식</b>에서 주간소식을 요일 카드로 보고, <b>원본 보기</b>로 늘 보던 인쇄물 그대로 봅니다. 빼꼼 알림판 첫 줄은 <b>금주의 기도제목</b>입니다. AI 도우미 이름은 <b>AI 해죠</b>가 되었고 마이크로 말하면 1초 뒤 저절로 보냅니다. 넵은 사진이 카톡처럼 크게 보이고, 받은 넵을 전달하거나 빠뜨린 분을 더할 수 있습니다. 학교가 보내는 자동 안내는 종 그림 <b>띵동</b>으로 옵니다. 수업 교체에는 <b>반 바꾸기</b>가 생겼고, 분실물 함은 폰을 흔들면 정리됩니다. 나머지는 각 부에서 직접 봅니다. 왼쪽 위 표시를 가리키며 “뒤에서 직접 봅니다” 정도로 짧게 넘깁니다.",
     html: '<div class="chiprow"><span class="chip new">NEW</span><span class="chip ghost">10월 21일 ~ 31일</span></div><h2 class="title">요즘 <em>새로 바뀐</em> 여덟 가지</h2>' +
       '<div class="abs nf">' + NEWF.map(function (f) { return '<div class="card c"><span class="where">' + f[0] + "</span><h3>" + f[1] + "</h3><p>" + f[2] + "</p></div>"; }).join("") + "</div>",
     build: function (el, A) {
@@ -958,15 +958,30 @@
       { t: '판 오른쪽 위 알약 <span class="q">「공지 3 · 교체 5」</span> = 빼꼼의 공지·바뀐 수업 수', s: 0, r: R("home", "pill"), newf: true, z: 1.9 },
       { t: '두 칸 <span class="q">내 수업 · 내 일정</span>: 누르면 <b>시간표·달력</b>', g: '두 칸 <span class="q">내 수업 · 내 일정</span>: 누르면 <b>시간표·달력</b>(오른쪽 화살표 = 누르는 칸). 내 일정은 「일정 3 · 넵 2」처럼 나눠 셉니다', s: 0, r: R("home", "tiles"), newf: true, z: 1.9 },
       { t: '오른쪽 남색 기둥 = <b>내 바로가기</b>: 처음엔 전자칠판·수업교체·분실물, 빨간 숫자는 처리할 것', g: '오른쪽 남색 기둥 = <b>내 바로가기</b>(10월 30일): 처음엔 전자칠판 알림·수업교체·분실물 함. 빨간 숫자는 처리할 것(수업교체·넵·전자서명). 화면을 내려도 기둥은 제자리에 붙어 있습니다', s: 0, r: R("home", "rail"), newf: true },
-      { t: '기둥 맨 아래 <span class="k">톱니</span> → <span class="q">「바로가기 고르기」</span>: 더보기 도구 중 <b>최대 6개</b>', g: '기둥 맨 아래 <span class="k">톱니</span> → <span class="q">「바로가기 고르기」</span>: 더보기의 도구 중 <b>최대 6개</b>를 골라 <span class="k">완료</span>. 고른 것은 <b>그 기기에만</b> 저장됩니다(폰·PC 따로)', s: 2, r: R("home-sheet", "pick"), newf: true },
+      { t: '기둥 맨 아래 <span class="k">톱니</span> → <span class="q">「홈 꾸미기」</span>: 바로가기 <b>최대 6개</b>, 순서는 ▲▼', g: '기둥 맨 아래 <span class="k">톱니</span> → <span class="q">「홈 꾸미기」</span>: 더보기의 도구 중 <b>최대 6개</b>를 고르고, <span class="q">「고른 순서」</span>에서 ▲▼로 기둥 차례를 바꾸거나 ✕로 뺍니다(10월 31일). 맨 위 <span class="q">「홈 모양」</span>에서 쿨메신저형도 고를 수 있어요. 고른 것은 <b>그 기기에만</b> 저장됩니다(폰·PC 따로). 바로가기를 다 빼면 기둥이 사라지고 톱니는 띠 안 종 옆으로 갑니다', s: 2, r: R("home-sheet", "order"), newf: true },
       { t: '<span class="q">「처리할 넵 6건 · 새 메시지 6건」</span> 줄 — 누르면 넵 「받은」 탭', s: 0, r: R("home", "nep"), z: 1.8 },
       { t: '오늘 시간표: 지금 교시에 <span class="q">「지금」</span>, 지난 교시는 흐리게, 교체는 「바뀜」', g: '오늘 시간표: 지금 교시에 노란 칸 <span class="q">「지금」</span>(쉬는 시간엔 점선 「다음」), 지난 교시는 흐리게. 교체로 들어온 수업은 초록 「바뀜」, 넘긴 교시는 「교체」. 칸의 점은 그 교시에 겹친 일정', s: 0, r: R("home", "now"), z: 1.9 },
       { t: '그 아래 <b>급식</b>, 맨 아래 <span class="q">「다가오는 일정」</span>: 오늘부터 7일, 누르면 그날 달력', g: '그 아래 <b>급식</b>, 맨 아래 <span class="q">「다가오는 일정」</span>: 오늘부터 7일, 누르면 그날 달력. 머리 오른쪽 <span class="k">월간</span>은 달력, 그 주 주간소식이 올라오면 <span class="k">주간</span>도', s: 1, r: R("home-3", "upcoming") }
     ],
     gnote: { html: "<span>카드 머리 오른쪽 글자는 두 글자로 바뀌었습니다(10월 31일) — 시간표 카드 <b>「진도」·「전체」</b>, 급식 <b>「전체」</b>, 다가오는 일정 <b>「주간」</b>(주간소식)·<b>「월간」</b>(달력). PC처럼 넓은 화면에는 바로가기 기둥이 없고 왼쪽 메뉴를 씁니다. <b>저녁 7시부터는 「내일」 화면</b>입니다 — 빼꼼 판·두 칸·시간표·급식이 모두 내일 것으로 바뀌고 한마디는 「평안한 밤 되세요」. 주말·쉬는 날에는 다음 등교일 것이 보입니다. 홈의 <b>「오늘 알림」 카드는 없어졌습니다</b>(10월 28일) — 공지·교체 수는 빼꼼 판에, 새 공지는 알림·알림함·빼꼼에서 봅니다. 화면 속 이름·일정은 예시입니다.</span>" },
     screens: [shot("home"), shot("home-3"), shot("home-sheet")],
-    lt: { tag: "NEW", title: "새 홈 화면", sub: "빼꼼 판·두 칸(10/28) · 오른쪽 바로가기 기둥(10/30)" },
-    notes: "10월 28일에 홈 위쪽 파란 띠를 다시 정리했습니다. 띠의 주인공은 <b>빼꼼 판</b>입니다 — 오늘 일정, 경건회(인도·말씀·찬송), 등교·급식 지도 세 줄이 모두에게 보이고, 판 어디를 눌러도 빼꼼으로 갑니다. 오른쪽 알약 「공지 3 · 교체 5」는 빼꼼의 공지·바뀐 수업 수입니다. 그 아래 두 칸은 <b>내 수업</b>(시간표)과 <b>내 일정</b>(달력)입니다. 예전 「오늘 알림」 카드는 띠와 겹쳐서 없앴습니다. 10월 30일에는 띠 아래 카드 오른쪽에 <b>남색 바로가기 기둥</b>이 생겼습니다 — 처음엔 전자칠판 알림·수업교체·분실물 함이 들어 있고, 맨 아래 톱니를 누르면 더보기의 도구 중 최대 6개를 골라 둘 수 있습니다(그 기기에만 저장). 화면을 내려도 기둥은 제자리에 있고, 처리할 것이 있으면 빨간 숫자가 붙습니다. <b>저녁 7시부터</b>는 홈 전체가 내일 것으로 바뀌어, 퇴근길에 내일 수업·일정을 봅니다. 큰 글씨 한마디는 선생님마다 다르고(퇴근했다고 단정하거나 다그치는 말은 쓰지 않습니다), 화면 속 이름·일정은 예시입니다."
+    lt: { tag: "NEW", title: "새 홈 화면", sub: "빼꼼 판·두 칸(10/28) · 오른쪽 바로가기 기둥(10/30) · 홈 꾸미기(10/31)" },
+    notes: "10월 28일에 홈 위쪽 파란 띠를 다시 정리했습니다. 띠의 주인공은 <b>빼꼼 판</b>입니다 — 오늘 일정, 경건회(인도·말씀·찬송), 등교·급식 지도 세 줄이 모두에게 보이고, 판 어디를 눌러도 빼꼼으로 갑니다. 오른쪽 알약 「공지 3 · 교체 5」는 빼꼼의 공지·바뀐 수업 수입니다. 그 아래 두 칸은 <b>내 수업</b>(시간표)과 <b>내 일정</b>(달력)입니다. 예전 「오늘 알림」 카드는 띠와 겹쳐서 없앴습니다. 10월 30일에는 띠 아래 카드 오른쪽에 <b>남색 바로가기 기둥</b>이 생겼습니다 — 처음엔 전자칠판 알림·수업교체·분실물 함이 들어 있고, 맨 아래 톱니를 누르면 「홈 꾸미기」가 열려 더보기의 도구 중 최대 6개를 골라 두고 ▲▼로 순서를 바꿀 수 있습니다(그 기기에만 저장). 맨 위 「홈 모양」에서는 쿨메신저형도 고를 수 있습니다 — 다음 장면. 화면을 내려도 기둥은 제자리에 있고, 처리할 것이 있으면 빨간 숫자가 붙습니다. <b>저녁 7시부터</b>는 홈 전체가 내일 것으로 바뀌어, 퇴근길에 내일 수업·일정을 봅니다. 큰 글씨 한마디는 선생님마다 다르고(퇴근했다고 단정하거나 다그치는 말은 쓰지 않습니다), 화면 속 이름·일정은 예시입니다."
+  });
+
+  practice({
+    id: "homeCool", part: 3, num: null, label: "홈 모양 「쿨메신저형」 (보기만)", min: 0.6, isNew: true,
+    chips: [{ t: "NEW", c: "new" }, { t: "보기만", c: "ghost" }], title: "열자마자 <em>조직도</em>, 쿨메신저형 홈",
+    steps: [
+      { t: '톱니 → <span class="q">「홈 꾸미기」</span> 맨 위 <b>홈 모양</b>: 기본 / <b>쿨메신저형</b>', s: 0, r: R("home-sheet", "look"), newf: true },
+      { t: '위는 두 줄 띠: 날짜·지금 교시·날씨 + <b>빼꼼 한 줄</b>, 오른쪽 큰 <span class="k">종</span>', s: 1, r: R("home-cool", "band") },
+      { t: '열자마자 <b>조직도</b>: 찾기 칸과 <span class="k">받은</span>·<span class="k">보낸</span>, 체크하면 바로 넵 쓰기', s: 1, r: R("home-cool", "org") },
+      { t: '아래 탭 대신 기둥 맨 위에 <span class="k">AI</span> · <span class="k">자료실</span> · <span class="k">더보기</span>', s: 1, r: R("home-cool", "menu"), z: 1.6 }
+    ],
+    gnote: { html: "<span>쿨메신저처럼 앱을 열자마자 조직도가 뜨는 홈입니다(10월 31일). <b>그 기기에서만</b> 바뀌고(폰·PC 따로), PC처럼 넓은 화면은 그대로입니다. 쿨메신저형에는 한마디·시간표·급식 카드가 없으니 시간표는 빼꼼 한 줄이나 바로가기로 엽니다. 기본으로 돌리려면 기둥 맨 아래 톱니 → 홈 모양 <b>「기본」</b>.</span>" },
+    screens: [shot("home-sheet"), shot("home-cool")],
+    lt: { tag: "NEW", title: "홈 모양 「쿨메신저형」", sub: "10월 31일 · 기기마다 고름" },
+    notes: "쿨메신저에 익숙한 선생님을 위한 홈 모양입니다(10월 31일). 기둥 맨 아래 톱니를 눌러 「홈 꾸미기」 맨 위 <b>홈 모양</b>에서 「쿨메신저형」을 고르면, 앱을 열자마자 <b>조직도</b>가 뜹니다. 위는 두 줄 띠 — 날짜·지금 교시·날씨와 빼꼼 한 줄, 오른쪽에 큰 종. 그 아래 찾기 칸과 「받은」「보낸」 단추가 있고, 조직도에서 선생님을 체크하면 바로 넵을 씁니다. 아래 탭은 없어지고 그 자리의 AI·자료실·더보기는 기둥 맨 위로 올라갑니다. <b>그 기기에서만</b> 바뀌고, PC처럼 넓은 화면은 그대로입니다. 한마디·시간표·급식 카드는 없으니 시간표는 빼꼼 한 줄이나 바로가기로 엽니다. 기본으로 돌리려면 톱니 → 홈 모양 「기본」입니다."
   });
 
   practice({

diff --git a/index.html b/index.html
@@ -144,6 +144,7 @@ main { max-width: 1040px; margin: -26px auto 0; padding: 0 16px 60px; position: 
     <h2><span class="nw">NEW</span> 10월 26~31일에 바뀐 것</h2>
     <ul>
       <li><a href="guide.html#home">홈 오른쪽 남색 <b>바로가기 기둥</b>(10/30) — 처음엔 전자칠판·수업교체·분실물, 맨 아래 톱니로 최대 6개 고르기(그 기기에만 저장)</a>, 카드 머리 글자는 두 글자로(진도·전체·주간·월간)</li>
+      <li><a href="guide.html#homeCool">홈 꾸미기(10/31): 톱니 시트에서 바로가기 순서 ▲▼, 홈 모양 「쿨메신저형」 — 열자마자 조직도, 아래 탭 대신 기둥 위 AI·자료실·더보기(그 기기에만)</a></li>
       <li><a href="guide.html#p13">전자칠판 보내기(10/31): 글 칸 아래 한 줄에 링크 · 사진 · 음성 · 예약 · 10분, 예약은 「오늘 · 내일」과 시각만(「예약 없이 지금 띄우기」)</a></li>
       <li><a href="guide.html#p7">넵 보낸 탭에는 여러 분께 보낸 것·예약만(한 분께 보낸 넵은 그분 방에)</a>, <a href="guide.html#pc">PC 프로그램 0.3.11(아이콘이 휴대폰과 같은 그림, 보안 고침)</a></li>
       <li><a href="guide.html#home">홈 위쪽이 「빼꼼 · 오늘 학교는」 판(일정·경건회·지도)과 두 칸 「내 수업 · 내 일정」으로</a> — 판 어디를 눌러도 빼꼼, 오른쪽 알약은 공지·교체 수, 홈의 「오늘 알림」 카드는 없어짐</li>
